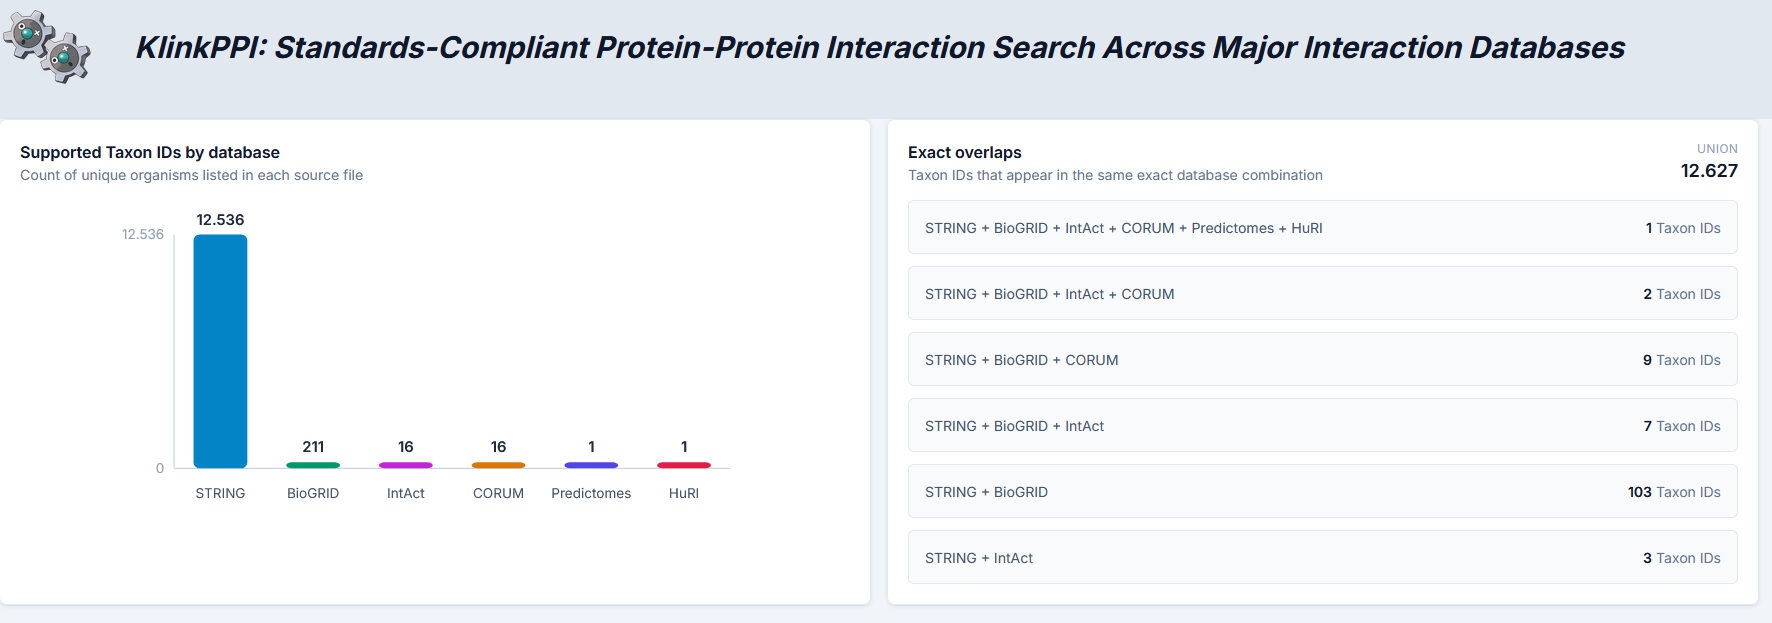
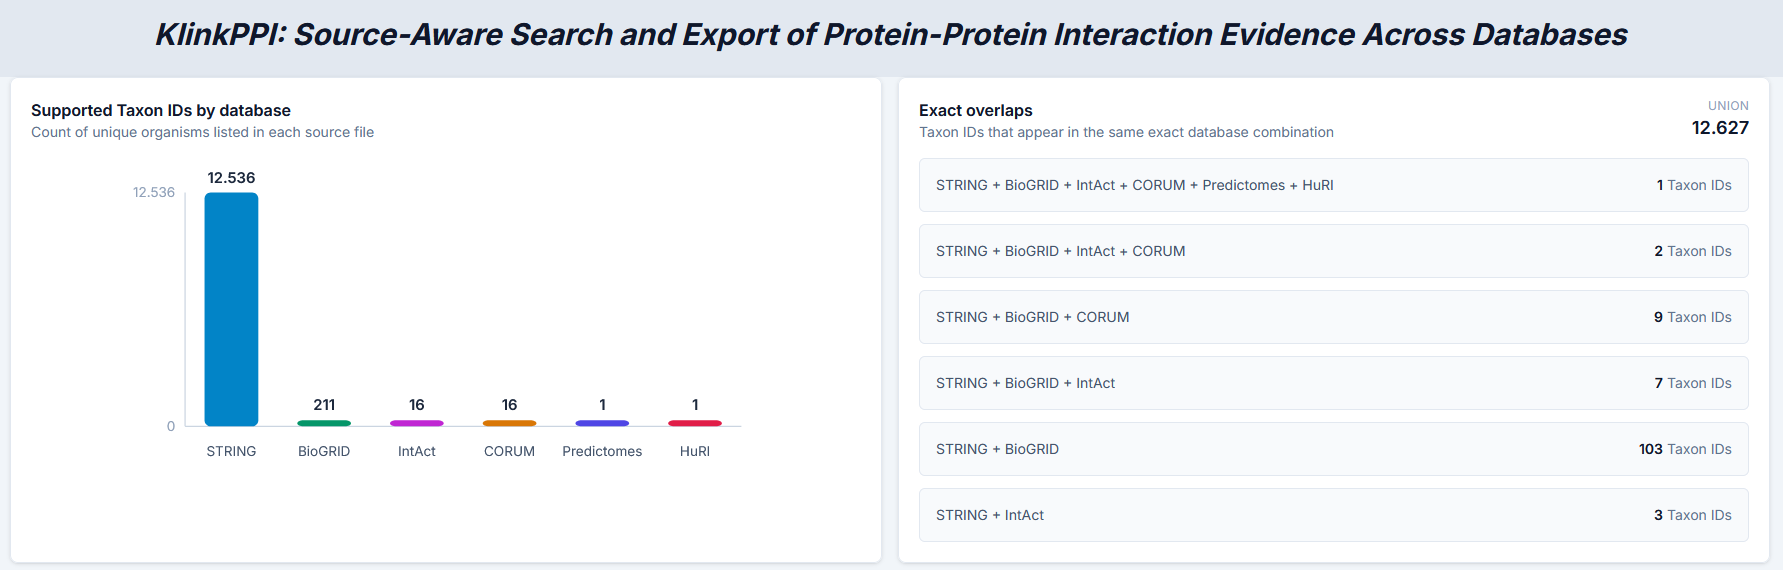
mitab_fix

diff --git a/README.md b/README.md
@@ -1,6 +1,6 @@
 # KlinkPPI
 
-KlinkPPI is a web application for exploring protein-protein interaction (PPI) data across multiple sources from one interface. It combines results from `STRING`, `CORUM`, `IntAct`, `BioGRID`, `HuRI`, and `Predictomes`, then lets users inspect and download the results in `PSI-MI TAB 2.8` or `Parquet` format.
+KlinkPPI is a web application for exploring protein-protein interaction (PPI) data across multiple sources from one interface. It combines results from `STRING`, `CORUM`, `IntAct`, `BioGRID`, `HuRI`, and `Predictomes`, then lets users inspect and download the results in a `PSI-MI TAB 2.8`-compatible tab-delimited format or `Parquet`.
 
 ## Features
 
@@ -8,7 +8,7 @@ KlinkPPI is a web application for exploring protein-protein interaction (PPI) da
 - Filter queries by taxonomy ID
 - Query one database or several at once
 - Review results in separate sections by database
-- Download selected results as `MI TAB` or `Parquet`
+- Download selected results as `MI TAB`-compatible tab-delimited files or `Parquet`
 
 ## Examples
 
@@ -93,6 +93,7 @@ http://localhost:5174
 - The backend CORS configuration currently allows `http://localhost:5174`.
 - Several backend resolvers call external services such as UniProt, Ensembl, STRING, and IntAct, so an internet connection is required for full functionality.
 - If `npm run dev` or `npm run build` fails after switching Node versions, remove stale dependencies and reinstall with `npm install`.
+- MITAB exports use shared core columns for all selected databases. The `Source database(s)` field uses verified PSI-MI source terms where available: `psi-mi:"MI:1014"(string)`, `psi-mi:"MI:0463"(biogrid)`, and `psi-mi:"MI:0469"(intact)`. Sources without verified PSI-MI database terms are exported as `corum`, `huri`, and `predictomes`.
 
 ## API Endpoints
 